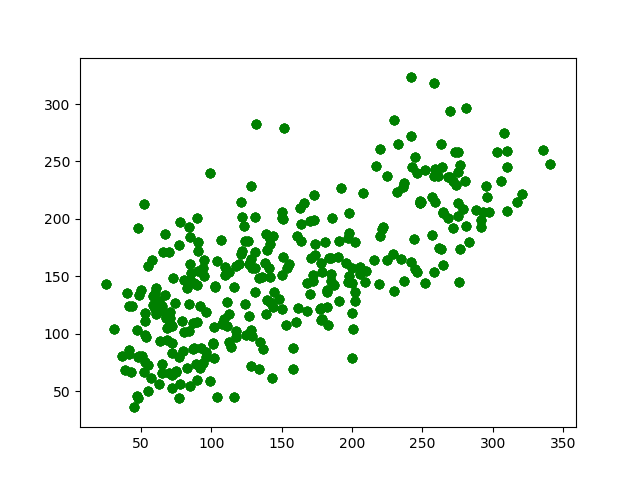
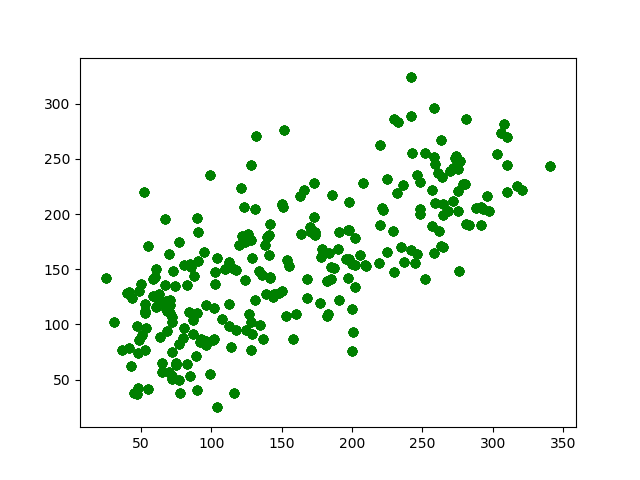
Random Forest for Diabeses

diff --git a/mlearning/templates/myapp/diabeses.html b/mlearning/templates/myapp/diabeses.html
@@ -65,8 +65,6 @@
     <section class="col-lg-12">
       <div class="row">
         <div class="col-lg-6">
-
-
           <div class="box box-primary">
             <div class="box-header with-border">
               <h3 class="box-title"><i class="fa fa-line-chart" aria-hidden="true"></i> &nbsp; Linear Regression</h3>
@@ -106,9 +104,50 @@
                 </tr>
               </table>
             </div>
+          </div>
+        </div>
+        <div class="col-lg-6">
+          <div class="box box-success">
+            <div class="box-header with-border">
+              <h3 class="box-title"><i class="fa fa-tree" aria-hidden="true"></i> &nbsp; Random Forest</h3>
+
+              <div class="box-tools pull-right">
+                <button type="button" class="btn btn-box-tool" data-widget="collapse"><i class="fa fa-minus"></i>
+                </button>
+                <button type="button" class="btn btn-box-tool" data-widget="remove"><i class="fa fa-times"></i></button>
+              </div>
+            </div>
+            <div class="box-body">
+
+              <div class="info-box">
+                <span class="info-box-icon bg-green"><i class="fa fa-th-large"></i></span>
+                <div class="info-box-content">
+                  <span class="info-box-text">CROSS VALIDATION SCORE</span>
+                  <span class="info-box-number">{{random_forest.cv_scores_rf_mean}}</span>
+                </div>
+              </div>
+
+
+              <table class="table table-striped">
+                <tr>
+                  <th></th>
+                  <th>Validation</th>
+                  <th>Test</th>
+                </tr>
+                <tr>
+                  <th style="color:#00c468;">MSE Score</th>
+                  <td>{{random_forest.validation_mse}}</td>
+                  <td>{{random_forest.test_mse}}</td>
+                </tr>
+                <tr>
+                  <th style="color:#00d2f7;">R2 Score</th>
+                  <td>{{random_forest.validation_r2_score}}</td>
+                  <td>{{random_forest.test_r2_score}}</td>
+                </tr>
+              </table>
+            </div>
 
           </div>
-
         </div>
       </div>
     </section>

diff --git a/myapp/diabeses.py b/myapp/diabeses.py
@@ -14,6 +14,7 @@ from sklearn.metrics import mean_squared_error, r2_score
 from sklearn.model_selection import train_test_split
 from sklearn.model_selection import cross_val_score
 from sklearn.model_selection import cross_val_predict
+from sklearn.ensemble import RandomForestClassifier
 
 #Django
 from django.shortcuts import render_to_response
@@ -43,8 +44,10 @@ def index(request):
 	X_train, X_test, y_train, y_test = train_test_split(
 		diabetes_X,
 		diabetes_y,
-		test_size=0.25,
+		test_size=0.4,
 		random_state=1)
+
+	random_forest = apply_randomForest(X_train, X_test, y_train, y_test)
 
 	# Create linear regression object
 	lm = linear_model.LinearRegression()
@@ -90,9 +93,37 @@ def index(request):
 		'validation_r2_score_LINEAR' : validation_r2_score_LINEAR,
 		'test_mse_LINEAR': test_mse_LINEAR,
 		'test_r2_score_LINEAR': test_r2_score_LINEAR,
+		'random_forest': random_forest,
 		'file': file,
 		'additional_script': additional_script
 	})
+
+def apply_randomForest(X_train, X_test, y_train, y_test):
+
+	rf_model = RandomForestClassifier()
+	rf_model.fit(X_train, y_train)
+	#cv_scores_rf_mean
+	cv_scores_rf = cross_val_score(rf_model, X_train, y_train, cv=5, scoring="accuracy")
+	cv_scores_rf_mean =  np.mean(cv_scores_rf)
+
+	# Make cross-validated predictions
+	y_train_pred_cv = cross_val_predict(rf_model, X_train, y_train, cv=5)
+	validation_mse = mean_squared_error(y_train, y_train_pred_cv)
+	validation_r2_score = r2_score(y_train, y_train_pred_cv)
+
+	y_test_pred = rf_model.predict(X_test)
+	test_mse = mean_squared_error(y_test, y_test_pred)
+	test_r2_score = r2_score(y_test,y_test_pred)
+
+
+	result = {
+		'cv_scores_rf_mean' : cv_scores_rf_mean,
+		'validation_mse' : validation_mse,
+		'validation_r2_score': validation_r2_score,
+		'test_mse': test_mse,
+		'test_r2_score': test_r2_score
+	}
+	return result
 
 
 
